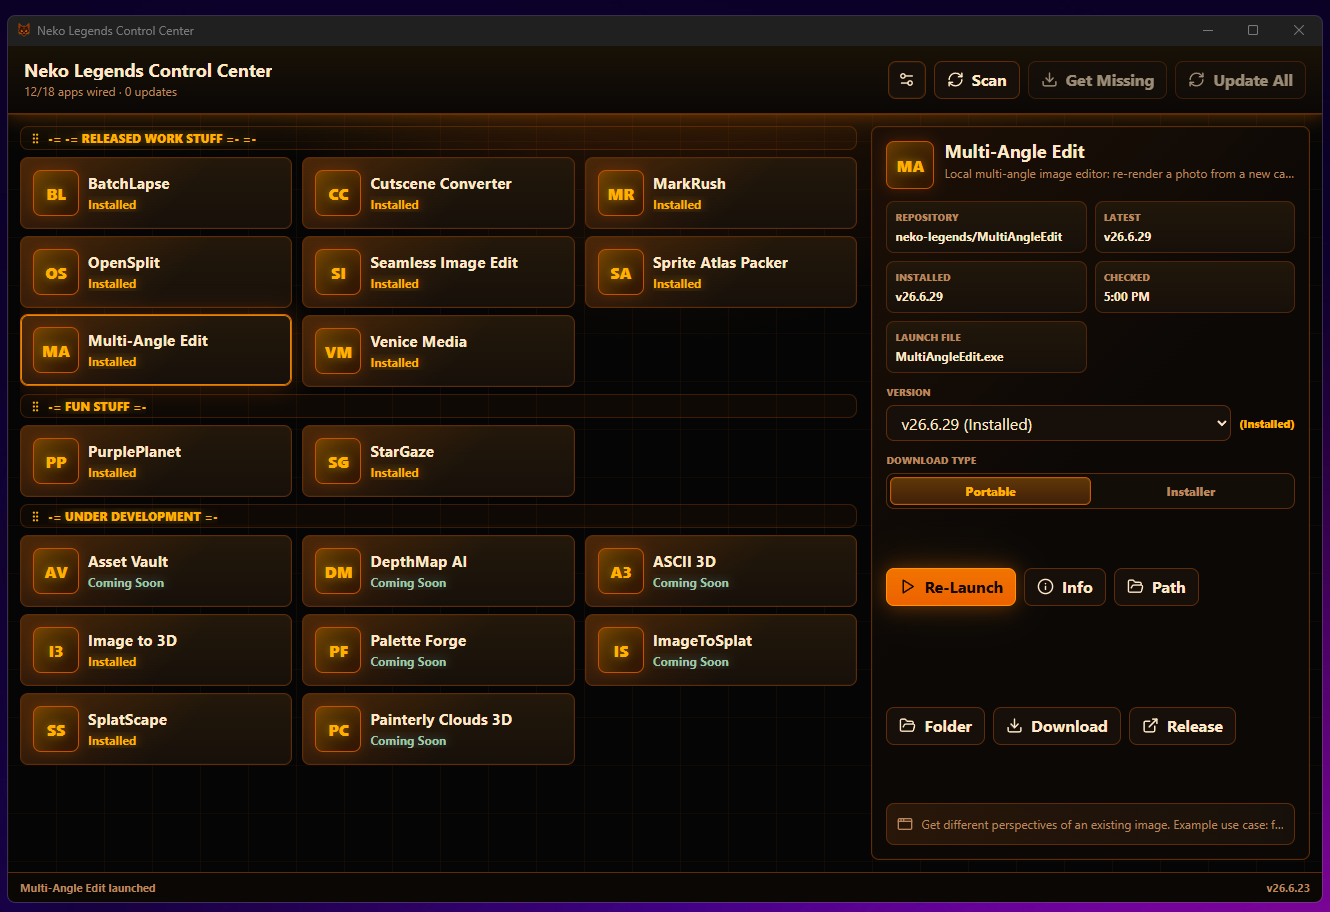
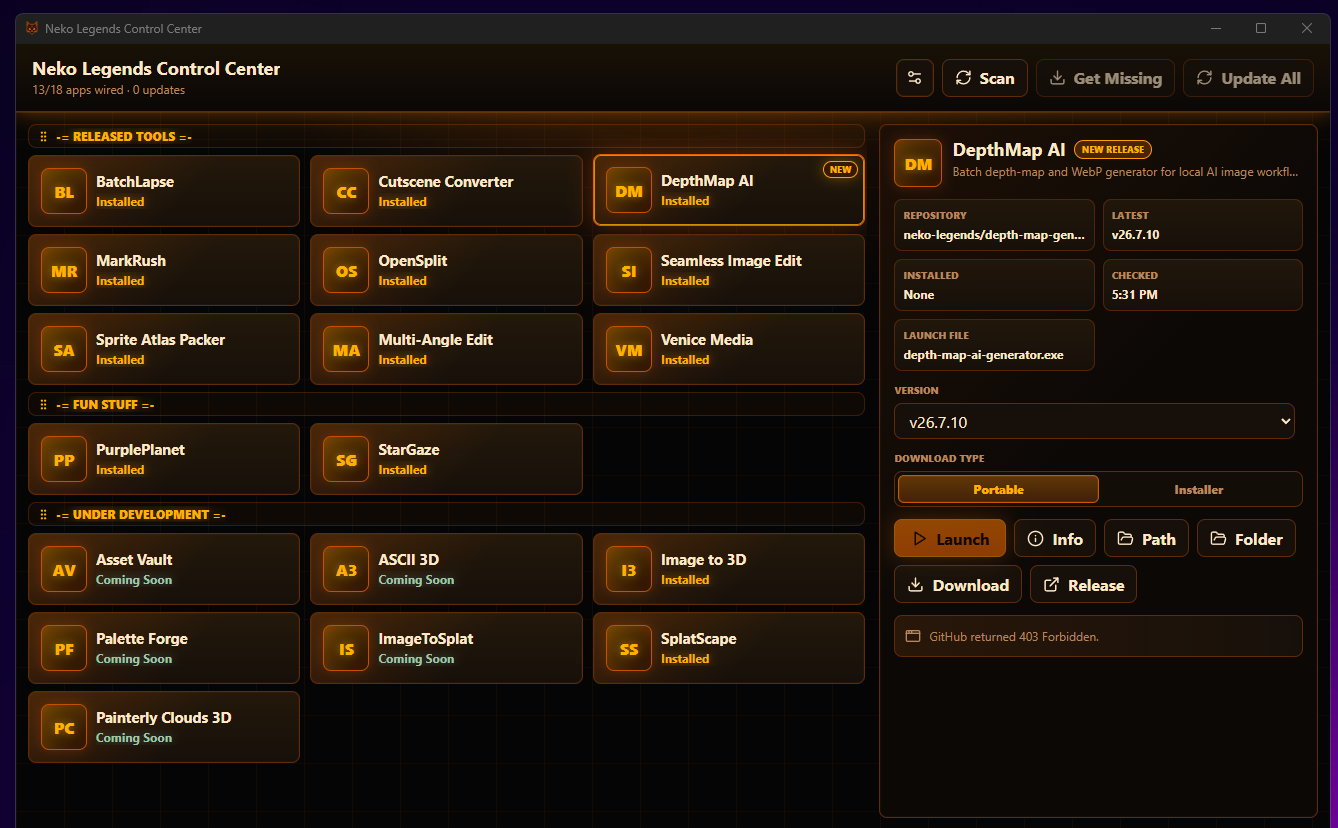
Update Control Center README screenshot

Changed region(s): [[0.0, 0.0, 1.0, 1.0], [0.9248, 0.4529, 0.9865, 0.4831], [0.4316, 0.5133, 0.4624, 0.5435]]

diff --git a/README.md b/README.md
@@ -6,7 +6,9 @@ The bigger goal is game development. I am building these tools while I build gam
 
 The tools are for humans building manually, humans working with AI agents, and AI agents that need automation-friendly utilities they can launch, inspect, modify, or extend. If we share the boring-but-necessary tools, everyone can move faster.
 
-![Neko Legends Control Center screenshot](screenshot.png)
+[![Neko Legends Control Center showing the released tools catalog and DepthMap AI](screenshot.png)](screenshot.png)
+
+_Click the screenshot to view it at full size._
 
 ## What People Can Do With It
 